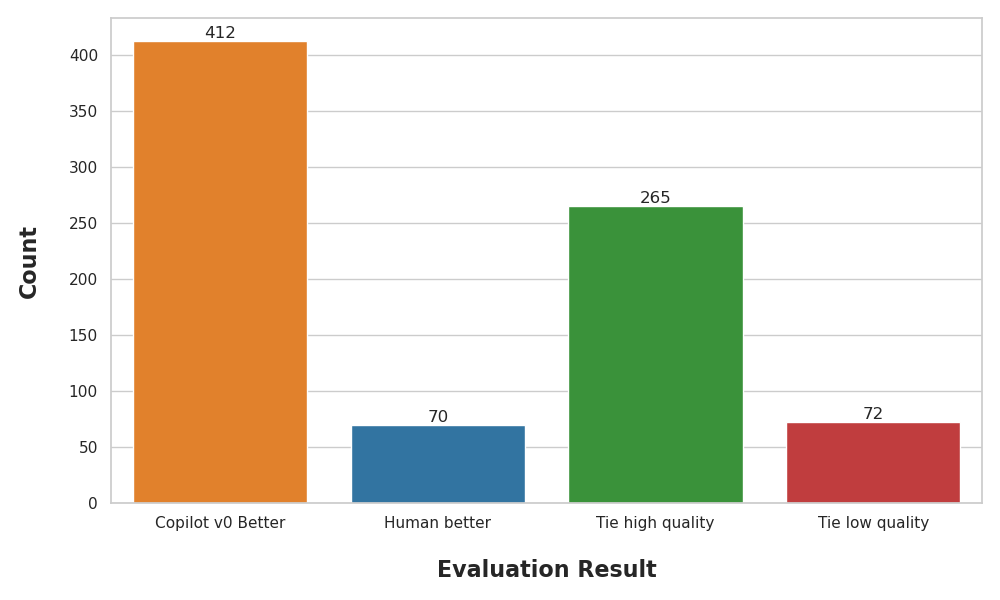
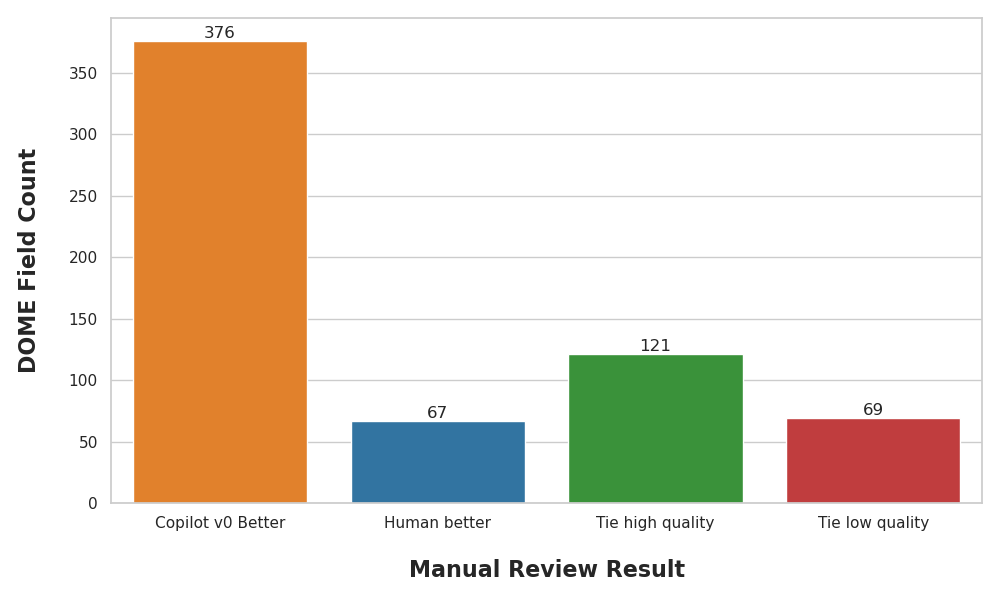
UPdates the journal image for supplementayr on n=30 msubset 01 and 03

diff --git a/Human_30_Copilot_vs_Human_Evaluations_Interface/generate_evaluation_analysis_plots.py b/Human_30_Copilot_vs_Human_Evaluations_Interface/generate_evaluation_analysis_plots.py
@@ -80,6 +80,9 @@ def load_evaluation_results():
 def plot_overall_rank_distribution(df):
     plt.figure(figsize=(10, 6))
     
+    # Exclude publication/ metadata fields
+    df_filtered = df[~df['Field'].str.startswith('publication/')].copy()
+    
     # Map labels (matching graph 03 key labels)
     rank_mapping = {
         'A_Better': 'Human better',
@@ -87,8 +90,7 @@ def plot_overall_rank_distribution(df):
         'Tie_High': 'Tie high quality',
         'Tie_Low': 'Tie low quality'
     }
-    df_mapped = df.copy()
-    df_mapped['Rank'] = df_mapped['Rank'].map(lambda x: rank_mapping.get(x, x))
+    df_filtered['Rank'] = df_filtered['Rank'].map(lambda x: rank_mapping.get(x, x))
     
     # Same colour scheme as graph 03
     custom_palette = {
@@ -101,14 +103,14 @@ def plot_overall_rank_distribution(df):
     bar_order = ['Copilot v0 Better', 'Human better', 'Tie high quality', 'Tie low quality']
     
     ax = sns.countplot(
-        data=df_mapped, 
+        data=df_filtered, 
         x='Rank', 
         order=bar_order, 
         palette=custom_palette
     )
     
-    plt.xlabel('Evaluation Result', fontsize=16, fontweight='bold', labelpad=20)
-    plt.ylabel('Count', fontsize=16, fontweight='bold', labelpad=20)
+    plt.xlabel('Manual Review Result', fontsize=16, fontweight='bold', labelpad=20)
+    plt.ylabel('DOME Field Count', fontsize=16, fontweight='bold', labelpad=20)
     
     # Add bar labels
     for container in ax.containers:
@@ -192,6 +194,28 @@ def plot_performance_by_field(df):
             
         ax.legend(ordered_handles, ordered_labels, loc='lower center', bbox_to_anchor=(0.5, 1.02), ncol=2, frameon=False, fontsize=12)
     
+    # Add centred count labels inside each bar chunk
+    hue_order_labels = ['Tie high quality', 'Tie low quality', 'Copilot v0 Better', 'Human better']
+    rank_mapping_inv = {
+        'Human better': 'A_Better',
+        'Copilot v0 Better': 'B_Better',
+        'Tie high quality': 'Tie_High',
+        'Tie low quality': 'Tie_Low',
+    }
+    # Get sorted field order (y-axis order from the plot)
+    ytick_labels = [t.get_text() for t in ax.get_yticklabels()]
+    field_rank_counts = df_filtered.groupby(['Field', 'Rank']).size().unstack(fill_value=0)
+    for patch_collection in ax.collections:
+        pass  # iterate collections to get bar patches
+    # Use bar containers from histplot via patches directly
+    for patch in ax.patches:
+        w = patch.get_width()
+        if w <= 0:
+            continue
+        x = patch.get_x() + w / 2
+        y = patch.get_y() + patch.get_height() / 2
+        ax.text(x, y, str(int(round(w))), ha='center', va='center', fontsize=9, color='white', fontweight='bold')
+
     plt.tight_layout()
     filepath = os.path.join(PLOTS_DIR, '03_Performance_By_Field_Stacked.png')
     plt.savefig(filepath)
